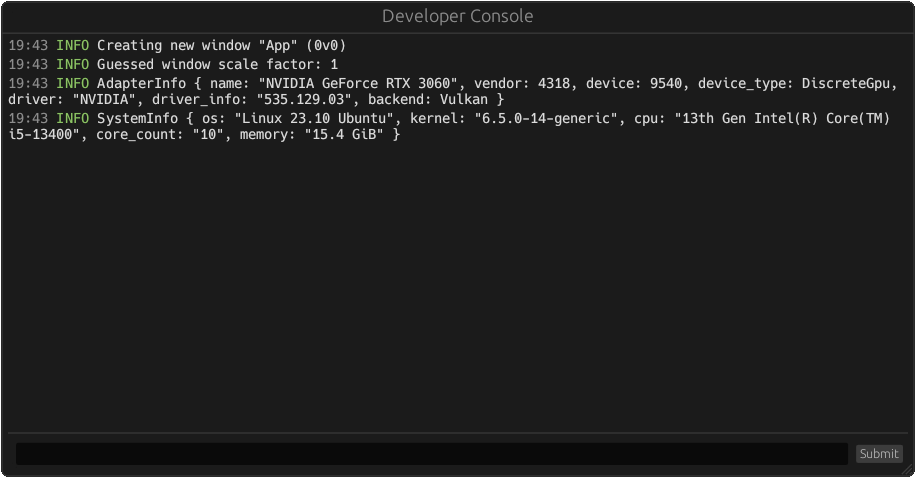
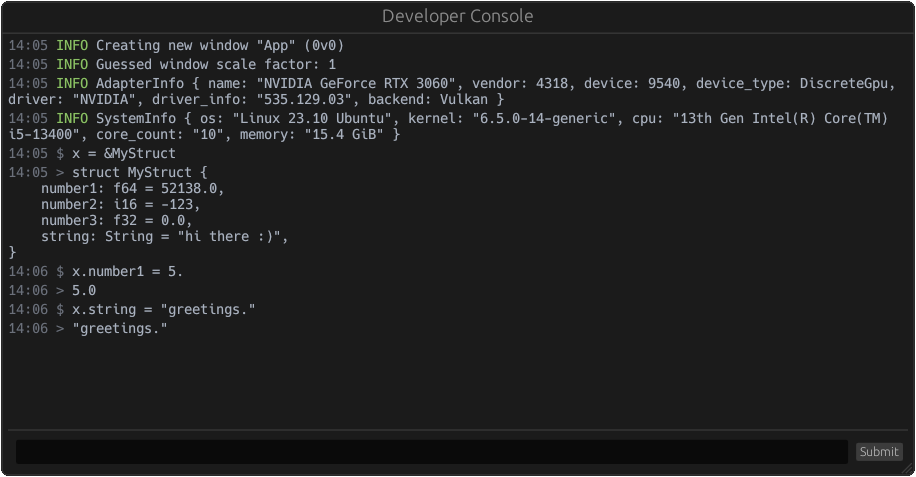
Fix reflection bugs and update console image

diff --git a/src/builtin_parser/runner.rs b/src/builtin_parser/runner.rs
@@ -37,13 +37,13 @@ pub use value::Value;
 macro_rules! todo_error {
     () => {
         Err(RunError::Custom {
-            text: "This error message is not yet implemented.".into(),
+            text: concat!("todo error invoked at ", file!(), ":", line!(), ":", column!()).into(),
             span: 0..0
         })?
     };
     ($($arg:tt)+) => {
         Err(RunError::Custom {
-            text: format!("This error message is not yet implemented: {}", format_args!($($arg)+)).into(),
+            text: format!(concat!("todo error invoked at ", file!(), ":", line!(), ":", column!(), " : {}"), format_args!($($arg)+)).into(),
             span: 0..0
         })?
     };
@@ -526,9 +526,18 @@ fn eval_path(
             )?;
 
             match left.value {
-                Path::Variable(variable) => {
-                    todo_error!()
-                }
+                Path::Variable(variable) => match &*variable.upgrade().unwrap().borrow() {
+                    Value::Resource(resource) => {
+                        let mut resource = resource.clone();
+
+                        resource.path.push('.');
+                        resource.path += &right;
+
+                        Ok(left.span.wrap(Path::Resource(resource)))
+                    }
+                    Value::Object(object) => todo_error!("todo object indexing"),
+                    value => todo_error!("{value:?}"),
+                },
                 Path::Resource(mut resource) => {
                     resource.path.push('.');
                     resource.path += &right;

diff --git a/src/builtin_parser/runner/reflection.rs b/src/builtin_parser/runner/reflection.rs
@@ -7,7 +7,7 @@ use bevy::{
 
 use super::Value;
 
-#[derive(Debug)]
+#[derive(Debug, Clone)]
 pub struct IntoResource {
     pub id: TypeId,
     pub path: String,

diff --git a/examples/resource.rs b/examples/resource.rs
@@ -12,7 +12,7 @@ enum MyEnum {
     Numero1,
     Structio {
         a: f64,
-        b: f64,
+        b: String,
     },
     Tupleo(String, f64),
 }
